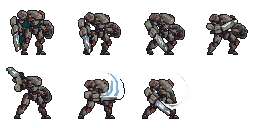
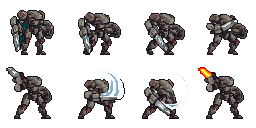
Update 0.274
Tilemap Art Update

Changed region(s): [[0.75, 0.5, 0.9688, 0.9375]]

diff --git a/Assets/Scrips/Ally/AllyRobot.cs b/Assets/Scrips/Ally/AllyRobot.cs
@@ -1480,7 +1480,12 @@ public class AllyRobot : MonoBehaviour
             return false;
 
         if (IsAirEnemyTarget(target))
+        {
+            // 冲锋期间锁存，目标中途死亡后仍可据此清掉竖直速度
+            if (currentState == AllyState.ComboDashWindup || currentState == AllyState.ComboDashing)
+                verticalComboDashLatched = true;
             return true;
+        }
 
         if (verticalComboDashLatched)
             return true;
@@ -1944,8 +1949,10 @@ public class AllyRobot : MonoBehaviour
         if (rb == null)
             return;
 
-        // 竖直/二维连携冲刺停步时清掉竖直速度，避免冲刺惯性残留
-        if (currentState == AllyState.ComboDashing && NeedsVerticalComboDash(currentTarget))
+        // 竖直/二维连携冲刺停步时清掉竖直速度，避免冲刺惯性残留。
+        // 用 verticalComboDashLatched：目标已死导致 currentTarget 为空时 NeedsVerticalComboDash 会失败。
+        if (verticalComboDashLatched
+            || (currentState == AllyState.ComboDashing && NeedsVerticalComboDash(currentTarget)))
             rb.linearVelocity = Vector2.zero;
         else
             rb.linearVelocity = new Vector2(0f, rb.linearVelocity.y);
